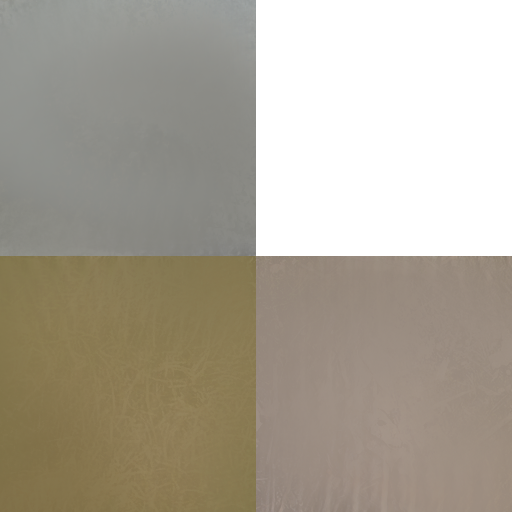
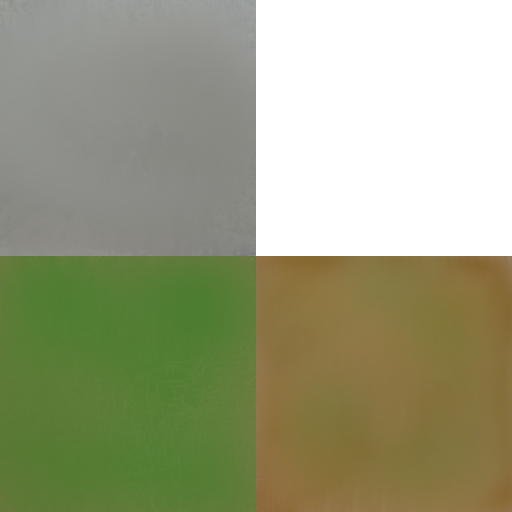
Updated terrain texture and fixed tex coords for floor

diff --git a/ICP/heightmap.cpp b/ICP/heightmap.cpp
@@ -13,15 +13,15 @@
 //return bottom left ST of subtexture
 glm::vec2 get_subtex_st(const int x, const int y)
 {
-	return glm::vec2(x * 1.0f / 4.0f, y * 1.0f / 4.0f);
+	return glm::vec2(x * 1.0f / 2.0f, y * 1.0f / 2.0f);
 }
 
 glm::vec2 get_subtex_by_height(float height)
 {
-	if (height > 0.2)
-		return get_subtex_st(1, 0); //rock
-	else if (height > 0.1)
-		return get_subtex_st(0, 1); //soil
+	if (height > 0.5)
+		return get_subtex_st(0, 1); //rock
+	else if (height > 0.2)
+		return get_subtex_st(1, 0); //soil
 	else 
 		return get_subtex_st(0, 0); //grass
 }
@@ -82,9 +82,9 @@ mesh HeightMap(cv::Mat& hmap, unsigned int mesh_step_size, const char * texPath)
 
 			// Get texture coords in vertices, bottom left of geometry == bottom left of texture
 			glm::vec2 tc0 = get_subtex_by_height(max_h);
-			glm::vec2 tc1 = tc0 + glm::vec2(1.0f / 4, 0.0f);			//add offset for bottom right corner
-			glm::vec2 tc2 = tc0 + glm::vec2(1.0f / 4, 1.0f / 4);  //add offset for top right corner
-			glm::vec2 tc3 = tc0 + glm::vec2(0.0f, 1.0f / 4);       //add offset for bottom leftcorner
+			glm::vec2 tc1 = tc0 + glm::vec2(1.0f / 2, 0.0f);			//add offset for bottom right corner
+			glm::vec2 tc2 = tc0 + glm::vec2(1.0f / 2, 1.0f / 2);  //add offset for top right corner
+			glm::vec2 tc3 = tc0 + glm::vec2(0.0f, 1.0f / 2);       //add offset for bottom leftcorner
 			
 			//place vertices and ST to mesh
 			//   3-----2
